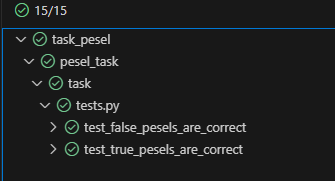
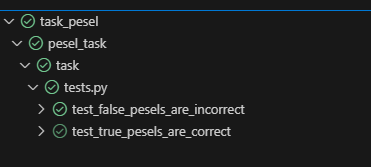
change test name

Changed region(s): [[0.0, 0.0, 1.0, 0.8683]]

diff --git a/pesel_task/task/tests.py b/pesel_task/task/tests.py
@@ -45,5 +45,5 @@ def test_true_pesels_are_correct(pesel: str):
 
 
 @pytest.mark.parametrize("pesel", FALSE_PESELS)
-def test_false_pesels_are_correct(pesel: str):
+def test_false_pesels_are_incorrect(pesel: str):
     assert not PeselValidator(pesel).is_valid()

diff --git a/README.md b/README.md
@@ -34,5 +34,5 @@ or for incorrect PESEL:
 
 Tests passed:
 
-
+![alt text](readme_images/image-5.png)
 ![alt text](readme_images/image-5.png)
